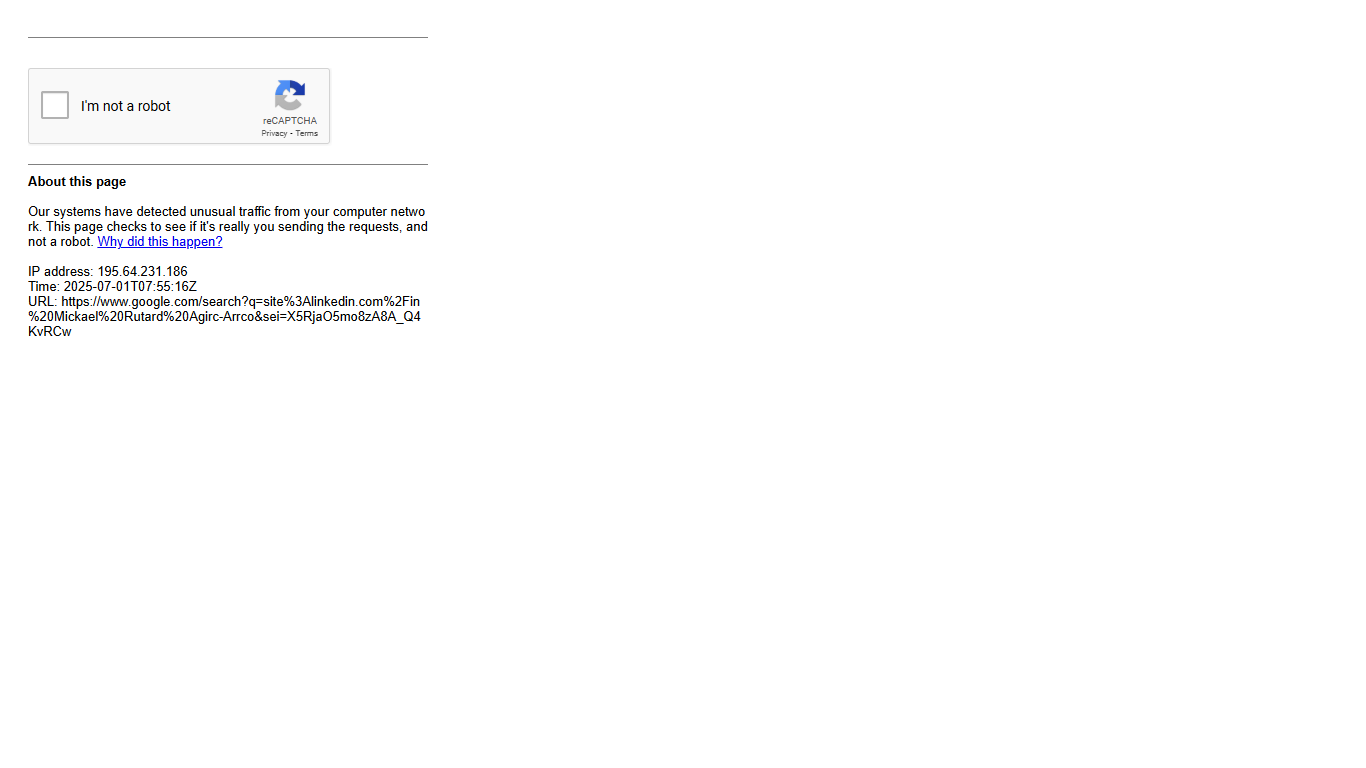
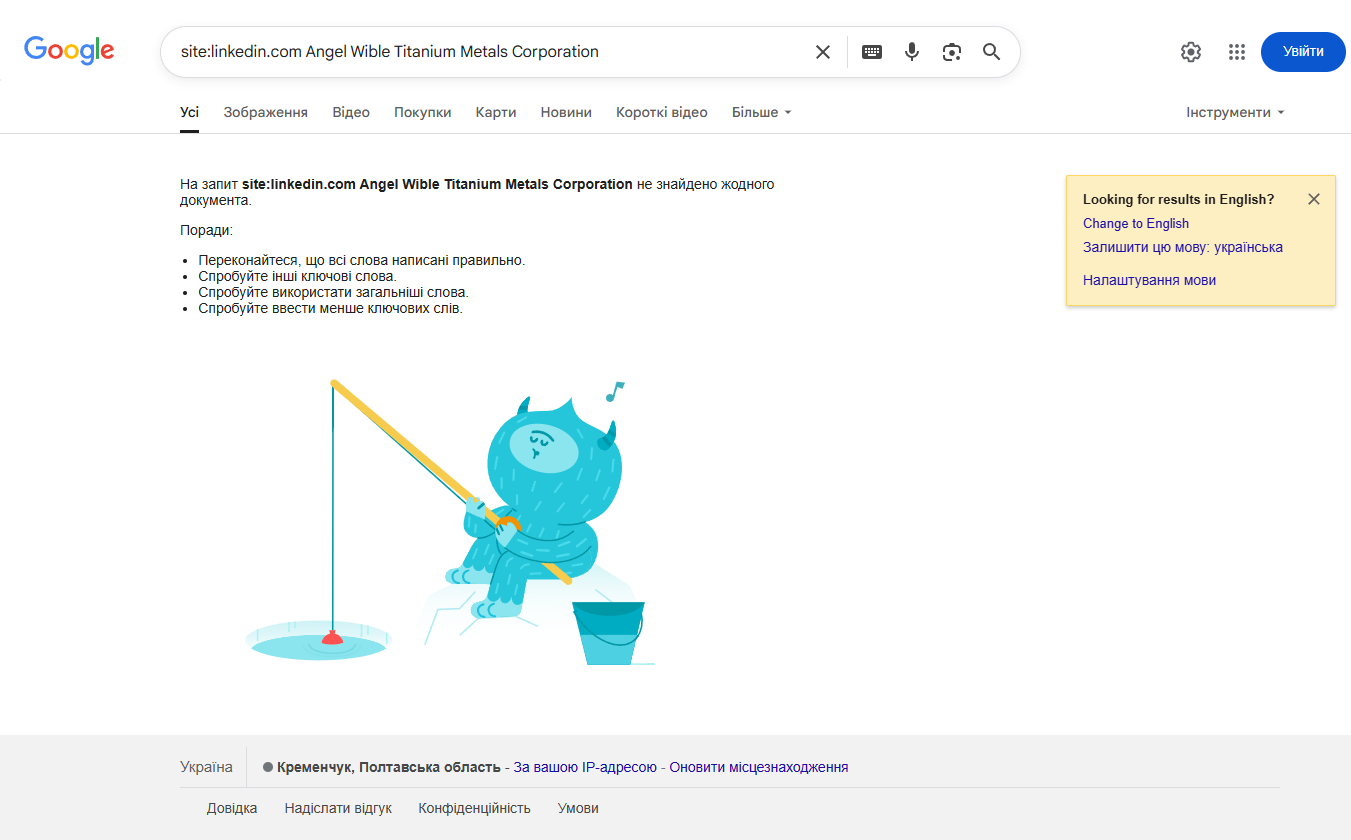
up

diff --git a/src/index.js b/src/index.js
@@ -70,8 +70,8 @@ async function main() {
   // const spreadsheetId = extractSpreadsheetId(url);
   // const listId = extractListId(url);
 
-  const spreadsheetId = '1RE5U_gUq-gatGubvdhJvw-CHd2vkbszEBuHv6MSSr0k';
-  const listId = 1669197484;
+  const spreadsheetId = '1fgA8f8K5nCRpjX8Uyk_3T5S58AHyC2pRmNj2lDboQ-k';
+  const listId = 1054705355;
 
   if (!spreadsheetId) {
     console.error('Не удалось извлечь Spreadsheet ID из ссылки.');
@@ -109,7 +109,7 @@ async function main() {
     const { browser } = await connect({
       args: ['--start-maximized'],
       turnstile: true,
-      headless: false,
+      headless: true,
       // disableXvfb: true,
       customConfig: {},
       connectOption: {
@@ -151,7 +151,7 @@ async function main() {
       }
       if (!rowObject.prooflink && rowObject.prooflink.trim() == '') {
         console.log(' prooflink пустой');
-        const searchQuery = `site:linkedin.com/in ${rowObject.first_name} ${rowObject.last_name} ${rowObject.company}`;
+        const searchQuery = `site:linkedin.com ${rowObject.first_name} ${rowObject.last_name} ${rowObject.company}`;
         const encodedQuery = encodeURIComponent(searchQuery);
         const url = `https://www.google.com/search?q=${encodedQuery}`;
 
@@ -159,7 +159,7 @@ async function main() {
           await page.goto(url, {
             waitUntil: 'networkidle2',
           });
-          await page.clickAndWaitForNavigation('body');
+          // await page.clickAndWaitForNavigation('body');
           const hasRecaptcha = await page.evaluate(() => {
             return (
               !!document.querySelector('.g-recaptcha') ||
@@ -170,12 +170,16 @@ async function main() {
           let solved = [];
 
           if (hasRecaptcha) {
+            console.log('hasRecaptcha', hasRecaptcha);
             const {
               captchas = [],
               solved: solvedCaptchas = [],
               error = null,
             } = await page.solveRecaptchas();
             solved = solvedCaptchas;
+            if (solved.length) {
+              console.log('Капча пройдена');
+            }
 
             if (error) {
               console.error('Ошибка при решении капчи:', error);
@@ -186,13 +190,14 @@ async function main() {
             solved = [true]; // Просто чтобы пройти проверку ниже
           }
           if (solved.length) {
-            console.log('Капчи успешно решены');
             await new Promise((r) => setTimeout(r, 1000));
             await page.screenshot({
               path: 'google_search.png',
               fullPage: true,
             });
-            await page.waitForSelector('div[data-rpos="0"]');
+            await page.waitForSelector('div[data-rpos="0"]', {
+              timeout: 10000,
+            });
 
             const blockText = await parser(page, 'div[data-rpos="0"]');
 
@@ -283,7 +288,10 @@ function checkBlockForPerson(text, person) {
 
   // const hasFirstName = blockText.includes(firstName);
   // const hasLastName = blockText.includes(lastName);
-  const hasCompany = blockText.includes(company);
+  const companyVariants = getCompanyVariants(company, person.email.trim());
+  const hasCompany = companyVariants.some((variant) =>
+    blockText.includes(variant)
+  );
   const hasTitle = blockText.includes(title);
 
   const allFound = hasNameVariants && hasCompany;
@@ -335,6 +343,7 @@ function checkNameVariantsInText(text, firstName, lastName) {
     `${fName} ${lastInitial}.`, // Laurent P.
     `${firstInitial}. ${lName}`, // L. Prebende
     `${firstInitial}. ${lastInitial}.`, // L. P.
+    `${lName} ${fName} `, // Laurent Prebende
   ];
 
   const found = nameVariants.some((variant) => blockText.includes(variant));
@@ -351,4 +360,59 @@ function normalizeString(str) {
     .toLowerCase()
     .normalize('NFD') // разложение символов с диакритиками на базовый + диакритик
     .replace(/[\u0300-\u036f]/g, ''); // удаление диакритиков
+}
+
+const COMPANY_EXCLUDE_WORDS = new Set([
+  'group',
+  'ltd',
+  'limited',
+  'corporation',
+  'corp',
+  'inc',
+  'co',
+  'company',
+  'plc',
+  'llc',
+  'sa',
+  'gmbh',
+  'ag',
+  'pte',
+  'pte.',
+  'pty',
+]);
+
+function getCompanyVariants(companyName, email = '') {
+  if (!companyName) return [];
+
+  // Обработка компании
+  const words = (companyName || '')
+    .split(/\s+/)
+    .map((w) => w.toLowerCase())
+    .filter((w) => w && !COMPANY_EXCLUDE_WORDS.has(w));
+
+  const variants = new Set();
+
+  if (words.length) {
+    // Полное название без служебных слов
+    variants.add(words.join(' '));
+
+    // Каждое значимое слово
+    words.forEach((word) => variants.add(word));
+
+    // Аббревиатура из первых букв
+    if (words.length > 1) {
+      const abbreviation = words.map((w) => w[0]).join('');
+      variants.add(abbreviation);
+    }
+  }
+
+  // Обработка email — выделяем домен между @ и первым .
+
+  const match = email.toLowerCase().match(/@([^.]+)\./);
+  if (match && match[1]) {
+    variants.add(match[1]);
+  }
+  const arr = Array.from(variants);
+  console.log('Паттерны:', arr);
+  return arr;
 }
